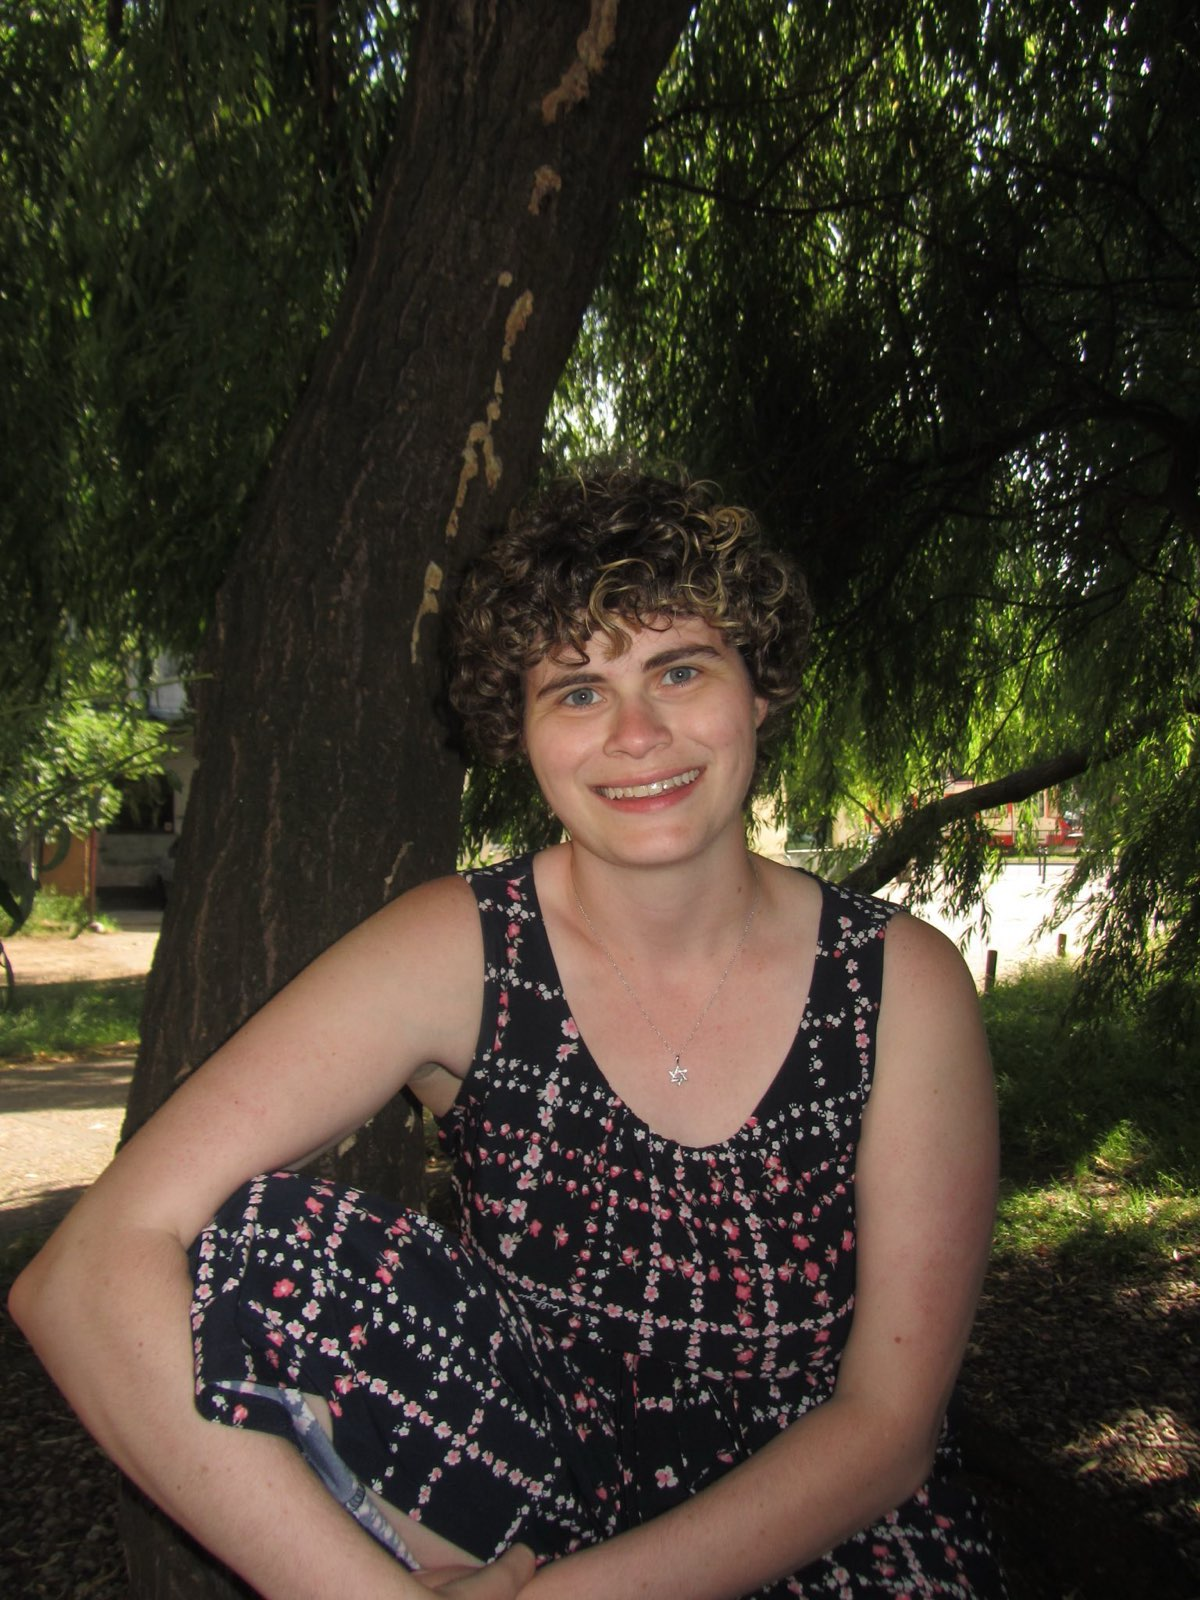
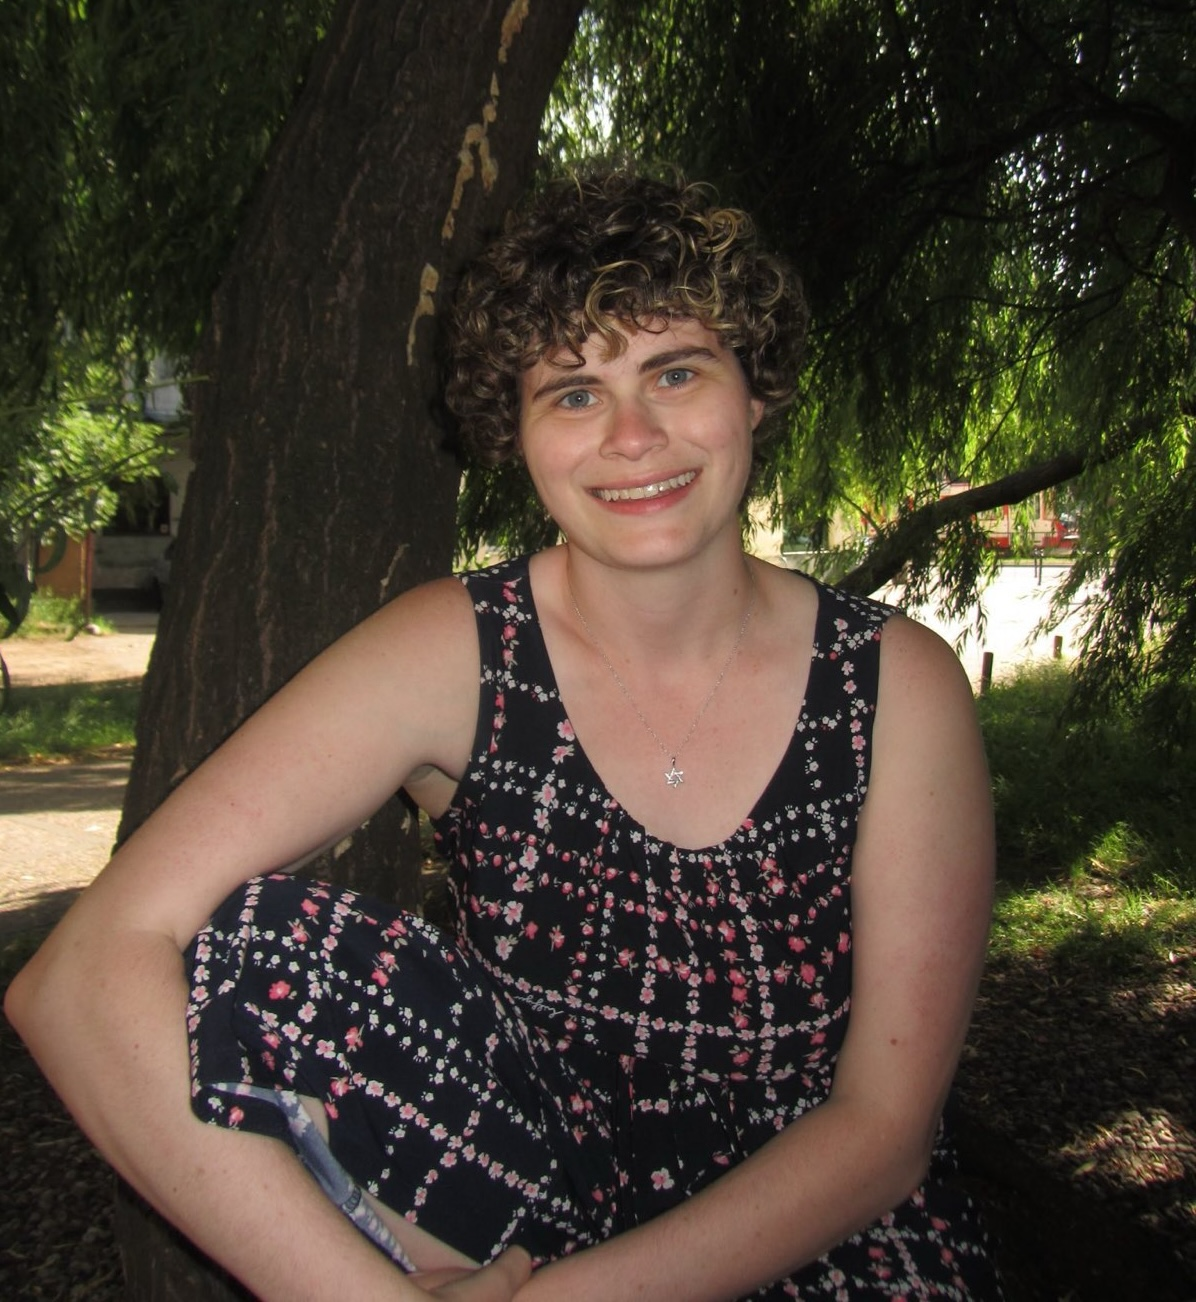
picture tweaks

diff --git a/css/group.scss b/css/group.scss
@@ -96,7 +96,7 @@ section {
 }
 
 .profile {
-    object-fit: cover; // makes sure it's cropped
+//    object-fit: cover; // makes sure it's cropped
 }
 
 .noprofile {
@@ -125,8 +125,8 @@ section {
     margin-bottom: 10px;
 
     .profile {
-        height: 70px;
-        width: 70px;
+        height: 100px;
+        width: 100px;
     }
 
     .bio {
